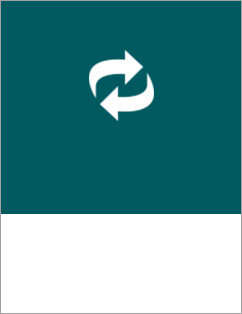
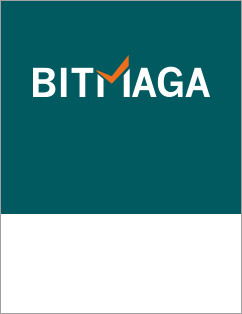
+ update

Changed region(s): [[0.1157, 0.1433, 0.8678, 0.4013]]

diff --git a/en/style.css b/en/style.css
@@ -2709,12 +2709,12 @@ body {
 #index .s4r2-icon {
 	background-repeat: no-repeat;
 	background-position: center;
-	background-image: url(assets/image/0/icon_GPEX.png);
+	background-image: url(assets/image/0/home_bitmaga_logo.png);
 	position: absolute;
-	width: 44px;
-	height: 48px;
+	width: 163px;
+	height: 39px;
 	top: 30px;
-	left: 35px;
+	left: 40px;
 }
 
 #index .s4r3-icon {

diff --git a/en/index.php b/en/index.php
@@ -858,7 +858,7 @@ Template Name: index.php
 
 				<div class="s4-right-2" onclick="SwitchPage('<?php echo home_url(); ?>/index.php/gpex');">
 					<div class="s4r2-icon"></div>
-					<div class="s4r2">BITMAGA</div>
+					<!--<div class="s4r2">BITMAGA</div>-->
 				</div>
 
 				<div class="s4-right-3" onclick="SwitchPage('<?php echo home_url(); ?>/livecoin');">
